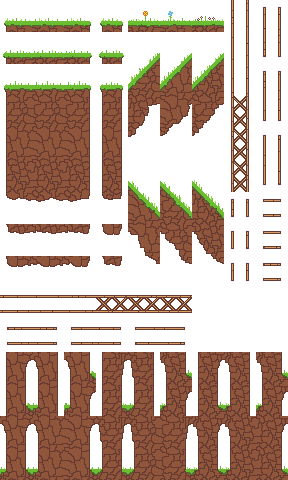
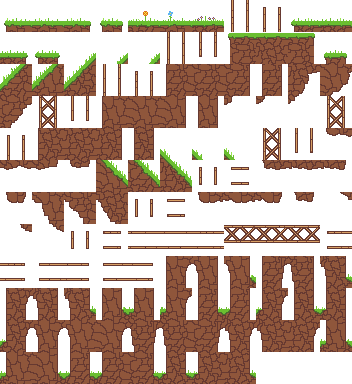
updated

diff --git a/digital_prototype_final/js/Game.js b/digital_prototype_final/js/Game.js
@@ -208,8 +208,8 @@ GameStates.makeGame = function( game, shared ) {
             // new trajectory.
 			game.physics.arcade.collide(player, groundLayer1);
 			if (keys.up.isDown && player.body.onFloor() && game.time.now > jumpTimer) {
-				player.body.velocity.y = -700;
-				jumpTimer = game.time.now + 1200;
+				player.body.velocity.y = -800;
+				jumpTimer = game.time.now + 1000;
 				if (facing == 'left') {
 					player.animations.play('jump_left');
 				}
@@ -217,14 +217,14 @@ GameStates.makeGame = function( game, shared ) {
 					player.animations.play('jump_right');
 				}
 			}
-			if (keys.left.isDown) {
+			if (keys.left.isDown && isAttacking == false) {
 				player.body.velocity.x = -200;
 				facing = 'left';
 				if (player.body.onFloor() == true){
 					player.animations.play('left');
 				}
 			}
-			else if (keys.right.isDown) {
+			else if (keys.right.isDown && isAttacking == false) {
 				player.body.velocity.x = 200;
 				facing = 'right';
 				if (player.body.onFloor() == true){
@@ -232,13 +232,13 @@ GameStates.makeGame = function( game, shared ) {
 				}
 			}
 			else {
-				if(facing == 'left') {
+				if(facing == 'left' && isAttacking == false) {
 					if (player.body.onFloor() == true) {
 						player.animations.play('idle_left');
 					}
 				}
 				else {
-					if (player.body.onFloor() == true) {
+					if (player.body.onFloor() == true && isAttacking == false) {
 						player.animations.play('idle_right');
 					}
 				}

diff --git a/digital_prototype_final/assets/platformer_32_full.tsx b/digital_prototype_final/assets/platformer_32_full.tsx
@@ -6,32 +6,22 @@
    <object id="5" x="0" y="20" width="32" height="12"/>
   </objectgroup>
  </tile>
- <tile id="10">
+ <tile id="16">
+  <objectgroup draworder="index">
+   <object id="1" x="5" y="20" width="28" height="12"/>
+  </objectgroup>
+ </tile>
+ <tile id="17">
   <objectgroup draworder="index">
    <object id="1" x="0" y="20" width="32" height="12"/>
   </objectgroup>
  </tile>
- <tile id="18">
-  <objectgroup draworder="index">
-   <object id="1" x="5" y="20" width="27" height="12"/>
-  </objectgroup>
- </tile>
- <tile id="19">
-  <objectgroup draworder="index">
-   <object id="1" x="0" y="20" width="32" height="12"/>
-  </objectgroup>
- </tile>
- <tile id="20">
-  <objectgroup draworder="index">
-   <object id="1" x="0" y="20" width="26" height="12"/>
-  </objectgroup>
- </tile>
- <tile id="84">
+ <tile id="70">
   <objectgroup draworder="index">
    <object id="1" x="0" y="8" width="32" height="13"/>
   </objectgroup>
  </tile>
- <tile id="85">
+ <tile id="71">
   <objectgroup draworder="index">
    <object id="1" x="0" y="8" width="32" height="13"/>
   </objectgroup>

diff --git a/digital_prototype_final/js/Preloader.js b/digital_prototype_final/js/Preloader.js
@@ -23,7 +23,7 @@ GameStates.makePreloader = function( game ) {
     
             //	Here we load the rest of the assets our game needs.
             //	As this is just a Project Template I've not provided these assets, swap them for your own.
-            game.load.image('titlePage', 'assets/title.jpg');
+            game.load.image('titlePage', 'assets/title_screen.png');
             game.load.atlas('playButton', 'assets/play_button.png', 'assets/play_button.json');
             game.load.audio('titleMusic', ['assets/Poppers and Prosecco.mp3']);
 			game.load.audio('stage_music', 'assets/Dreamy pilot.mp3');
